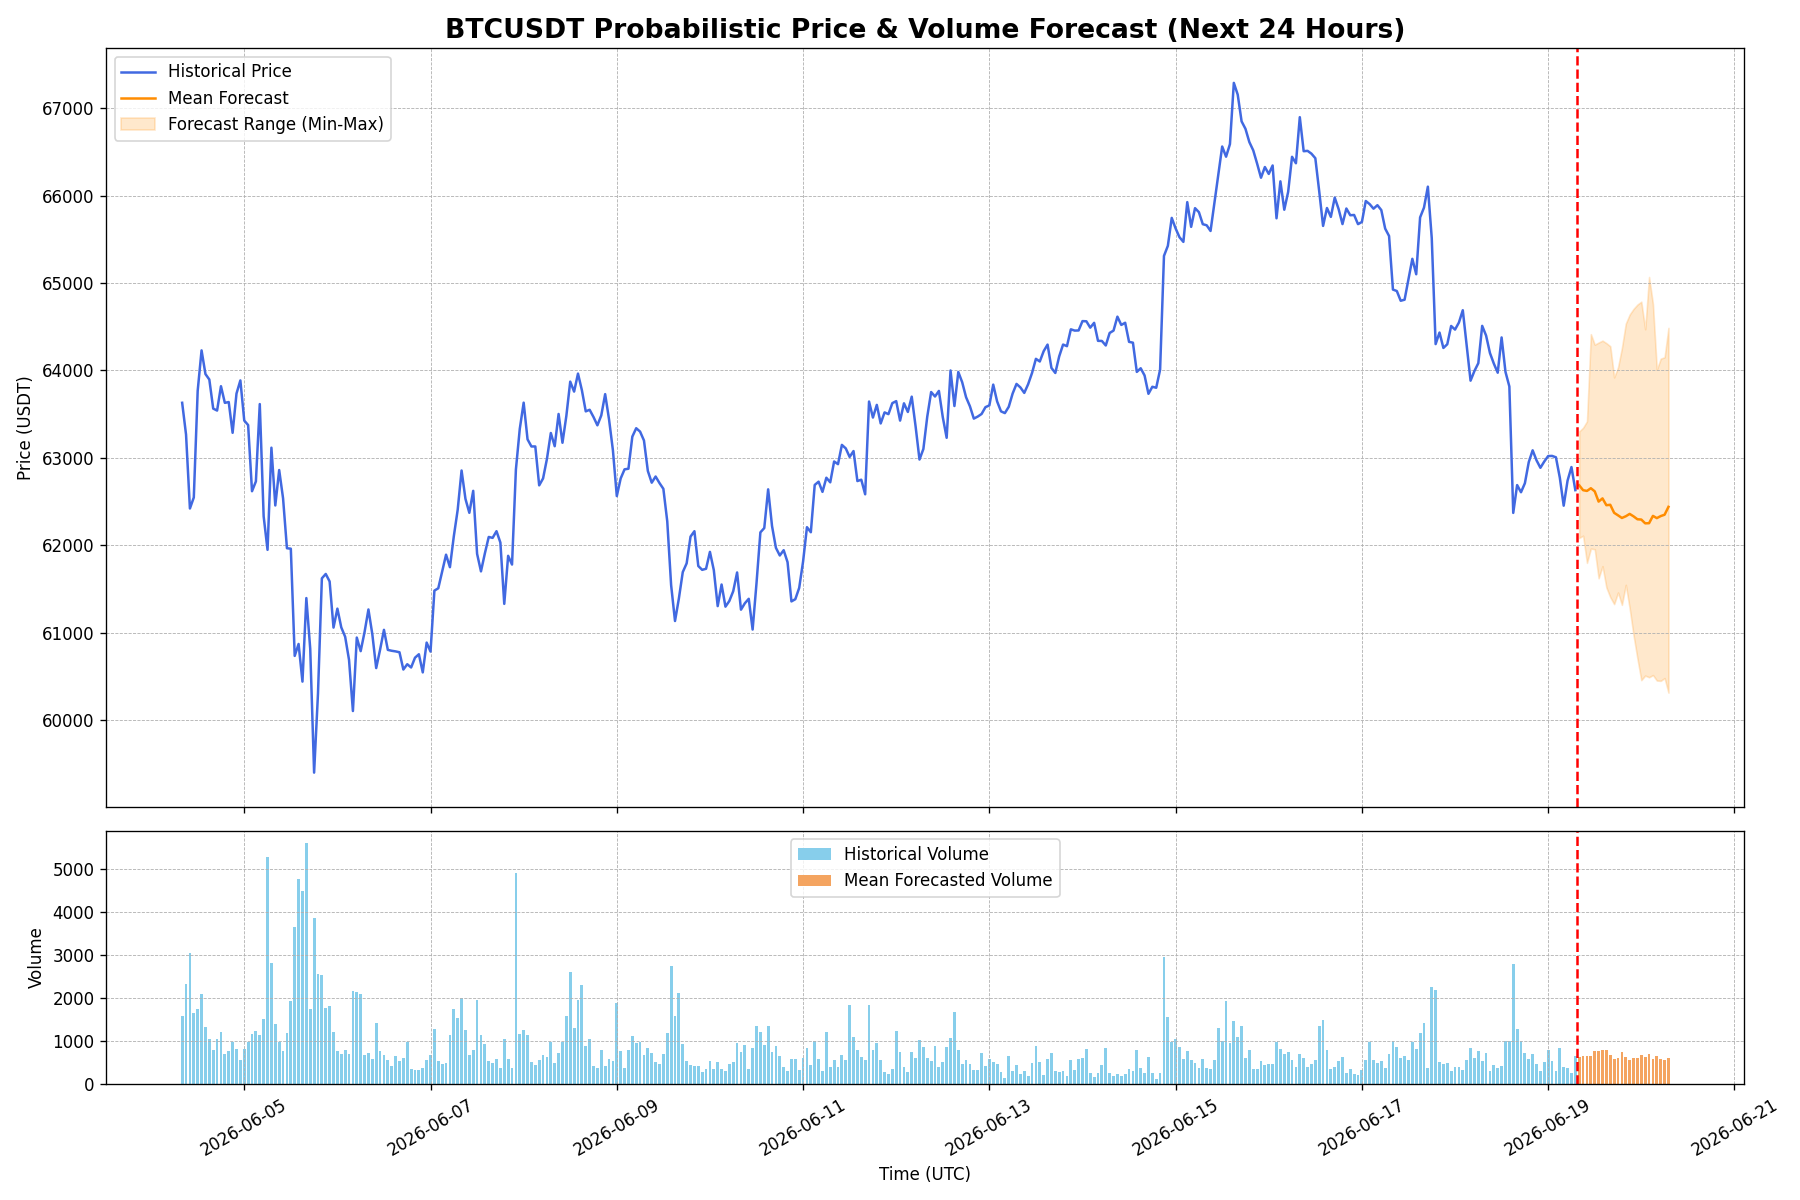
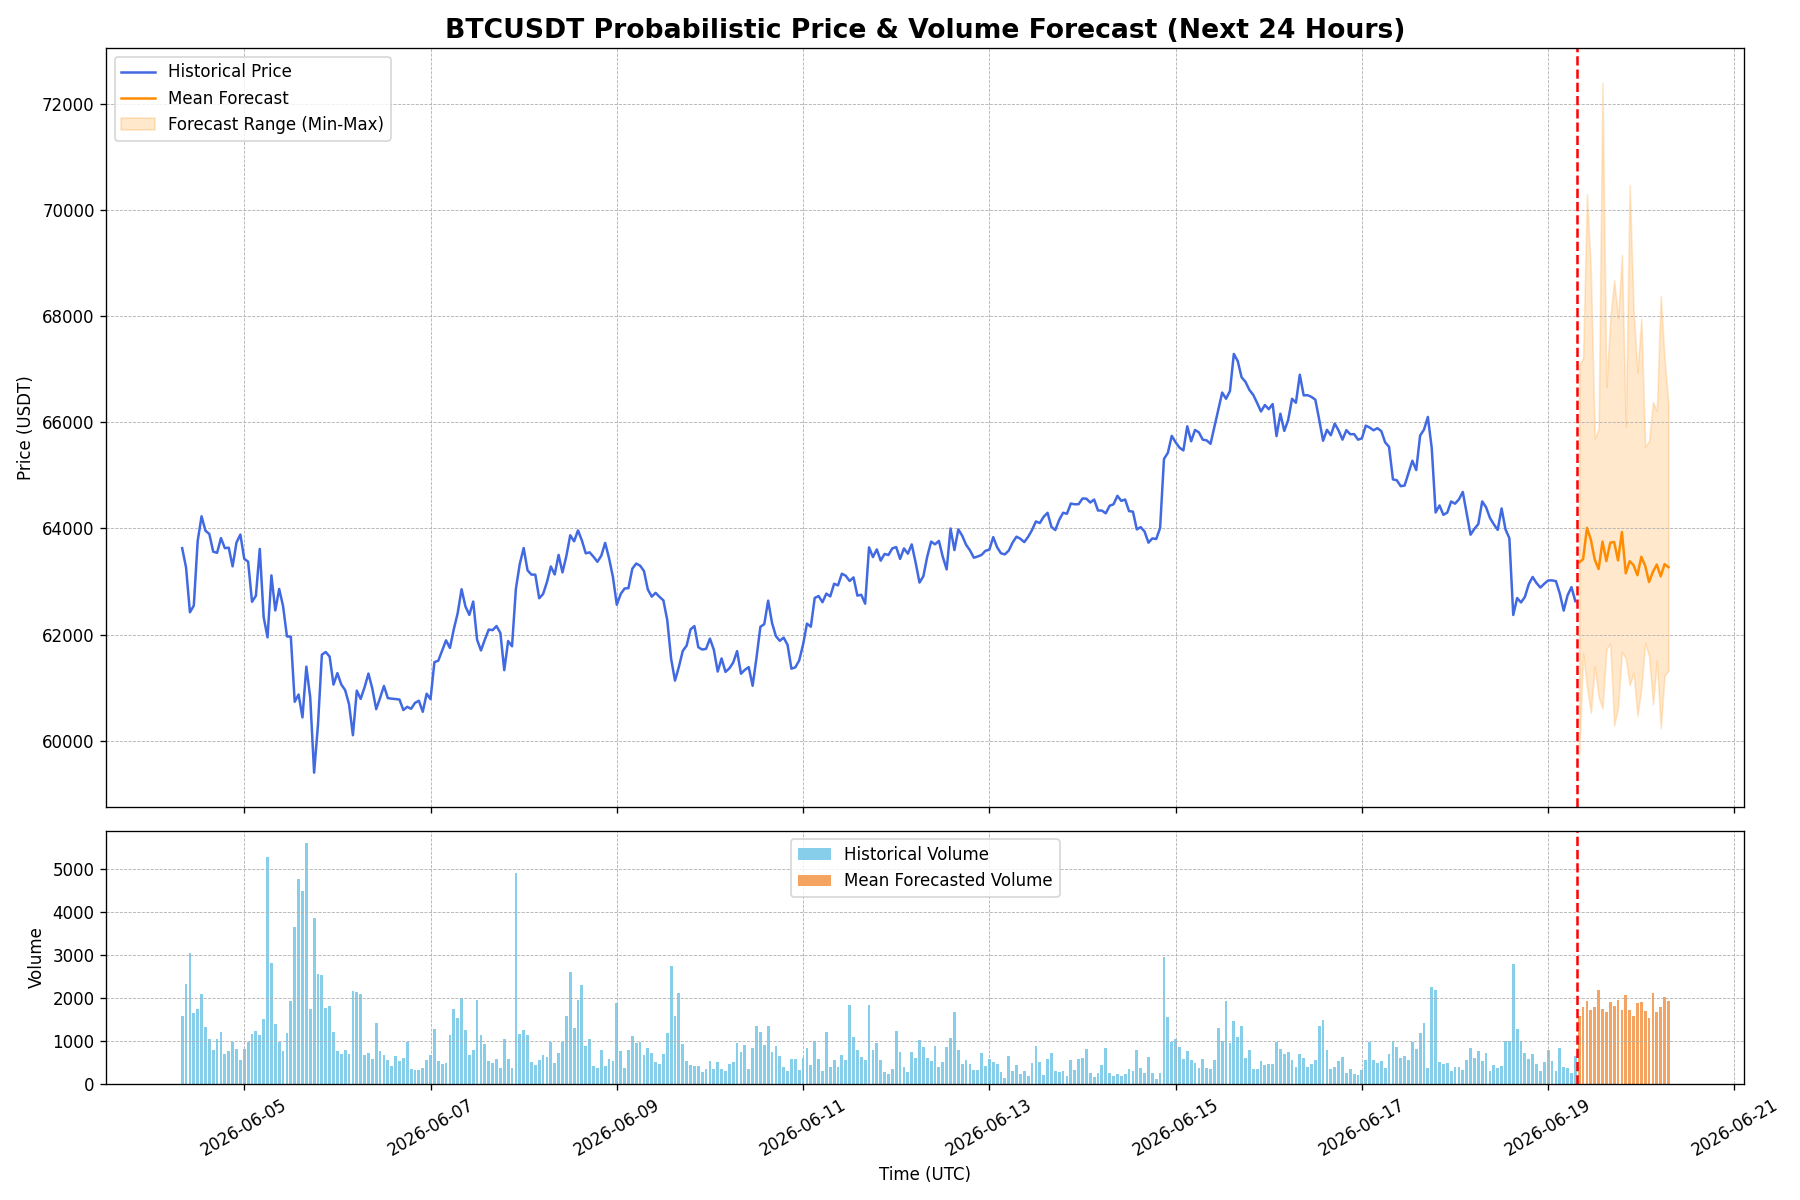
clean some code

diff --git a/update_predictions.py b/update_predictions.py
@@ -31,7 +31,7 @@ def load_model():
     """Loads the Kronos model and tokenizer."""
     print("Loading Kronos model...")
     tokenizer = KronosTokenizer.from_pretrained("NeoQuasar/Kronos-Tokenizer-2k", cache_dir=Config["MODEL_PATH"])
-    model = Kronos.from_pretrained("NeoQuasar/Kronos-mini", cache_dir=Config["MODEL_PATH"])
+    model = Kronos.from_pretrained("NeoQuasar/Kronos-base", cache_dir=Config["MODEL_PATH"])
     tokenizer.eval()
     model.eval()
     predictor = KronosPredictor(model, tokenizer, device="cpu", max_context=512)
@@ -238,12 +238,8 @@ def main_task(model):
 
     upside_prob, vol_amp_prob = calculate_metrics(hist_df_for_metrics, close_preds, v_close_preds)
     create_plot(hist_df_for_plot, close_preds, volume_preds)
-    update_html(upside_prob, vol_amp_prob)
 
-    commit_message = f"Auto-update forecast for {datetime.now(timezone.utc):%Y-%m-%d %H:%M} UTC"
-    git_commit_and_push(commit_message)
 
-    # --- 新增的内存清理步骤 ---
     # 显式删除大的DataFrame对象，帮助垃圾回收器
     del df_full, df_for_model, close_preds, volume_preds, v_close_preds
     del hist_df_for_plot, hist_df_for_metrics